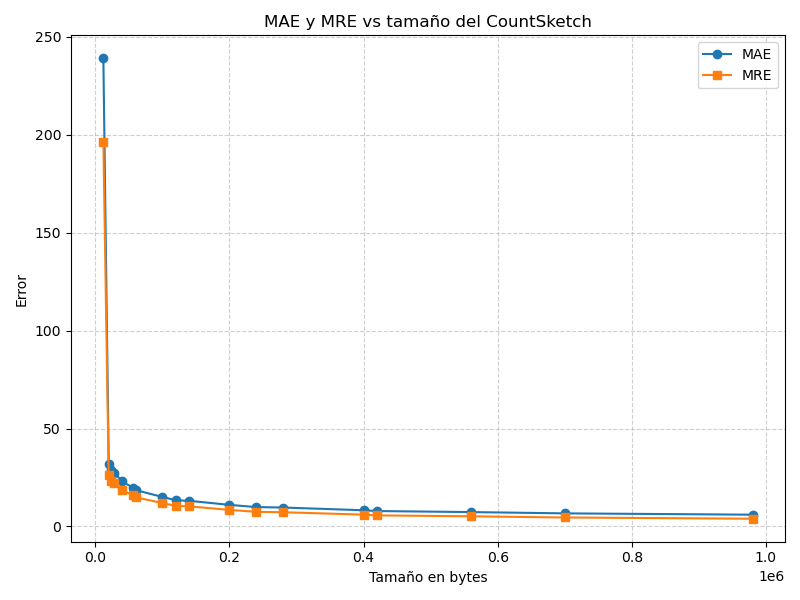
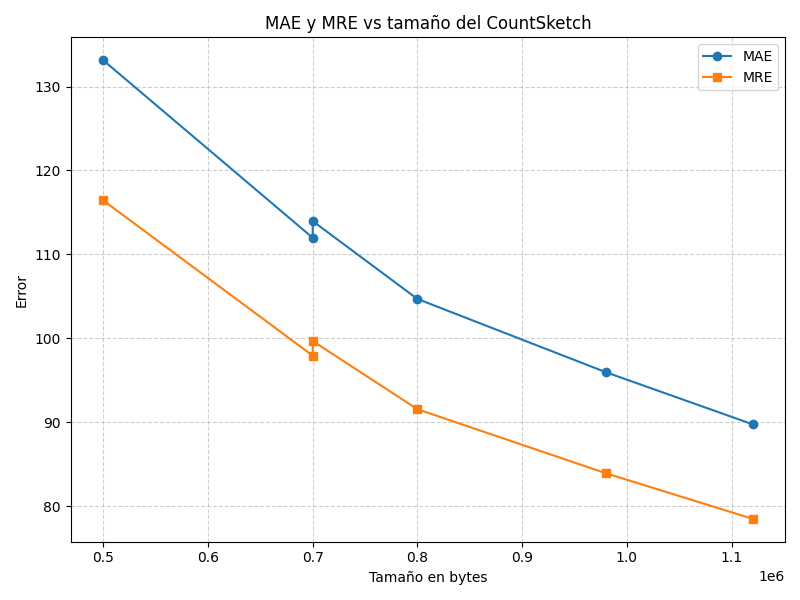
Calibracion de parametros y graficos 31-mers

diff --git a/calibracion_sketchs.cpp b/calibracion_sketchs.cpp
@@ -63,7 +63,7 @@ std::string canonical(const std::string &s) {
 }
 
 int main() {
-    int k = 21;
+    int k = 31;
     string dir = "Genomas";
 
     LectorGenomas lector(dir);
@@ -81,7 +81,7 @@ int main() {
     ofstream out(archivocsv);
     out << "sketch,d,w,tamano,mae,mre\n";
 
-    vector<int> d_vals = {3, 5, 7};
+    vector<int> d_vals = {5, 7};
     vector<int> w_vals = {25000, 35000, 40000};
 
     
@@ -112,9 +112,9 @@ int main() {
     ofstream tsout(archivocsv);
     tsout << "sketch,d,w8,w16,w32,tamano,mae,mre\n";
 
-    std::vector<int> w8_vals = {90000, 100000};
-    std::vector<int> w16_vals = {15000, 20000};
-    std::vector<int> w32_vals = {2000, 5000};
+    std::vector<int> w8_vals = {70000, 90000};
+    std::vector<int> w16_vals = {20000, 30000};
+    std::vector<int> w32_vals = {2000};
 
     for (int d : d_vals) {
         for (int w8 : w8_vals) {
